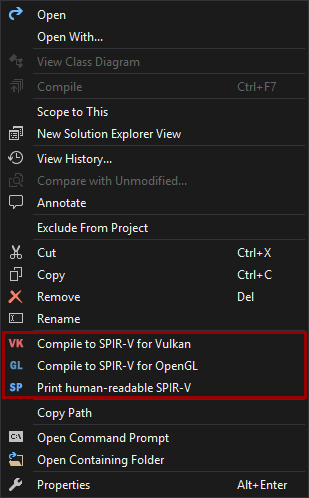
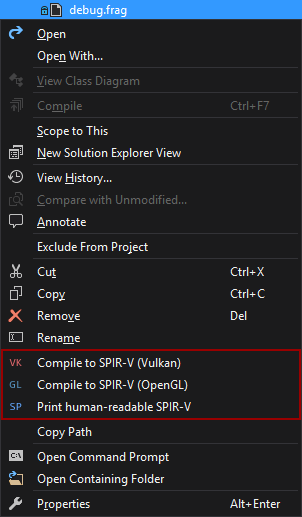
readme

diff --git a/README.md b/README.md
@@ -4,7 +4,7 @@
 
 <img src="./images/vs2015.png" width="512px">
 
-This VSIX extension adds SPIR-V related commands to the context menu of GLSL shader files for invoking the GLSL reference compiler from inside the IDE.
+This VSIX extension adds SPIR-V related commands to the context menu of GLSL shader files (and folders containing shaders) for invoking the GLSL reference compiler from inside the IDE.
 
 ## Requirements
 
@@ -19,10 +19,11 @@ The extension will search for the ```glslangvalidator.exe``` using the paths fro
 ### Visual Studio
 Currently only **Visual Studio 2015 is supported**, support for older versions may follow in the future.
 
-## File extensions
+## New context menu entries
 <img src="./images/contextmenu.png" height="256px">
+<img src="./images/contextmenufolder.png" height="256px">
 
-The context menu entries will be displayed if the current file selection (multi-select works, no folders yet) includes at least one shader file with a file extension supported by the GLSL reference compiler:
+The context menu entries will be displayed if the current file selection or folder includes at least one shader file with a file extension supported by the GLSL reference compiler:
 - ```.vert``` (Vertex shader)
 - ```.tesc``` (Tessellation control shader)
 - ```.tese``` (Tessellation evaluation shader)
@@ -46,8 +47,6 @@ Compile all selected shader files to SPIR-V binary using OpenGL semantics (-G) a
 
 #### Print human-readable SPIR-V
 
-<img src="./images/humanreadable.png" width="512px">
-
 This will output human readable SPIR-V (-H) using Vulkan semantics and displays it in a new document window.
 
 ### Error list
@@ -62,8 +61,9 @@ This is a very early version of this extension, some of the planned features are
   - Add file extension mappings
   - Custom binary SPIR-V output file name scheme (instead of a fixed output file scheme)
   - Option to disable dialog boxes after compile
+  - Option to use a remapper (SPIR-V remap etc.)
 - Save to text as hexadecimal numbers (-x)
-- Context menu entries on folder (so you can e.g. compile all shaders in a "Shader" folder at once)
+  - Generate include headers
 - Language features (as soon as their support by the reference compiler is finished)
   - Multiple main entry points
   - Compile from HLSL
